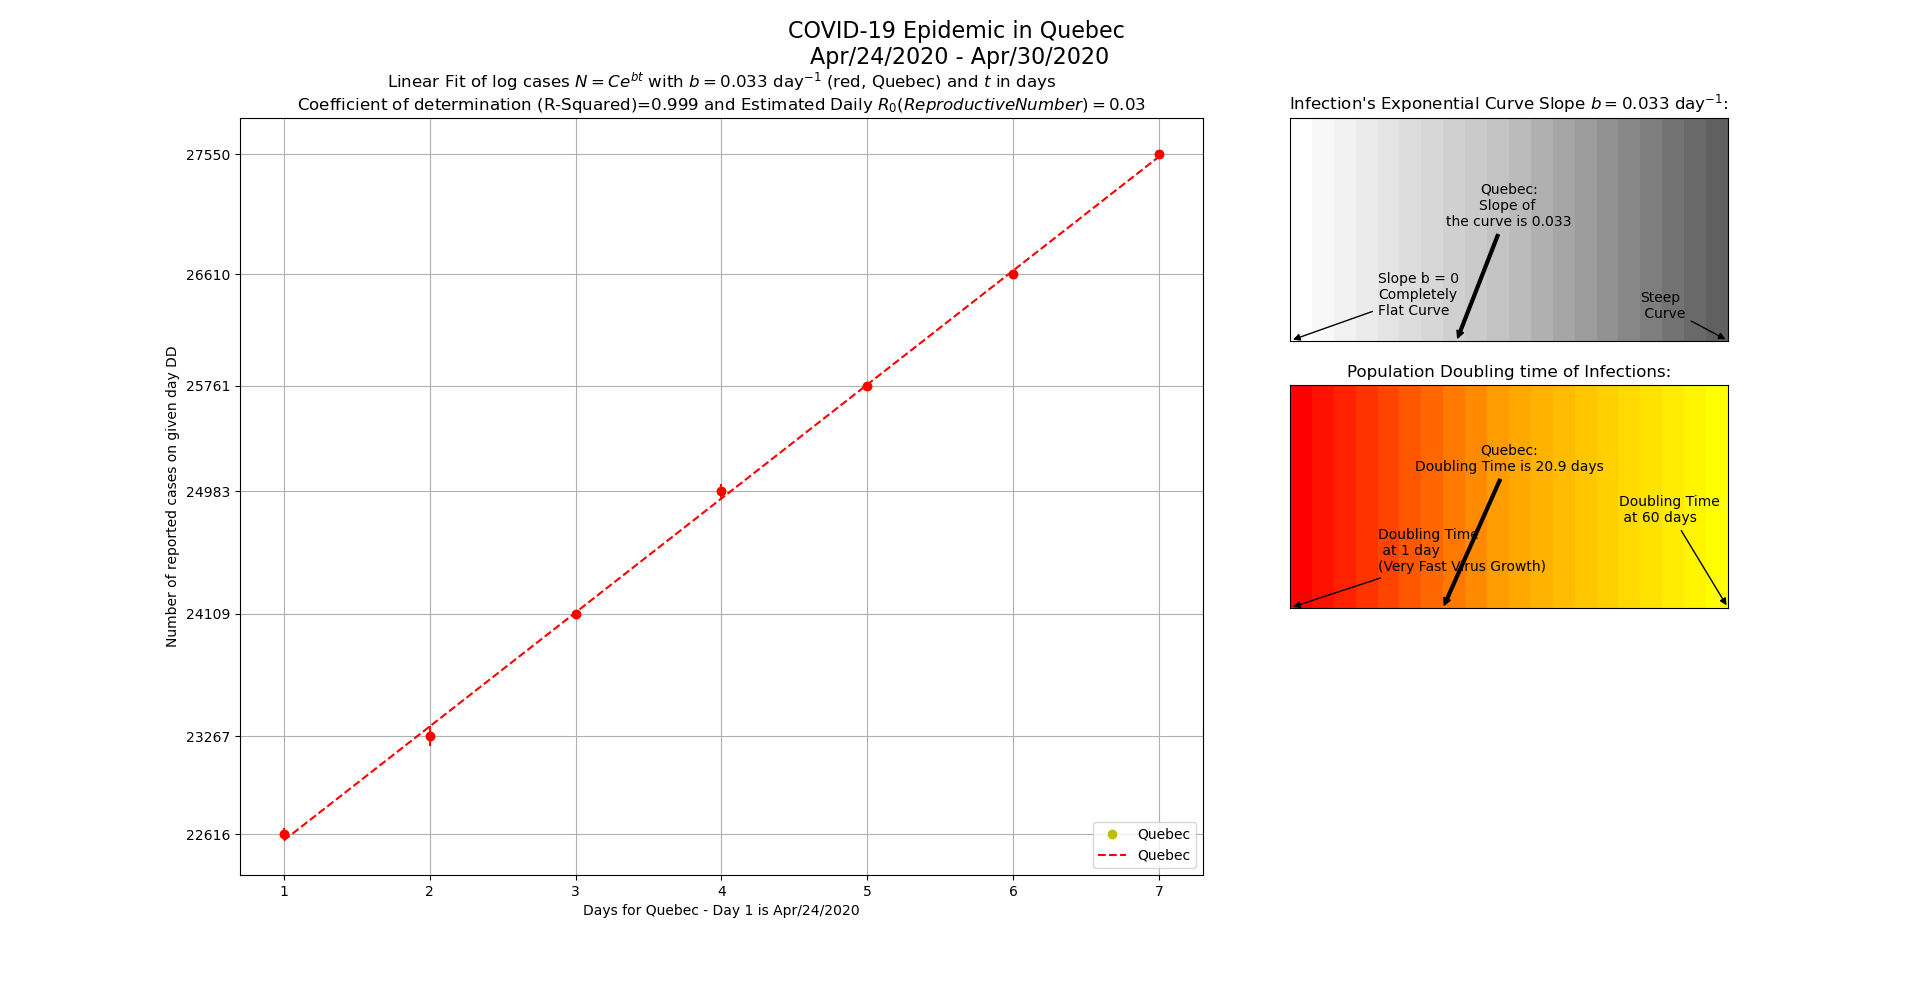
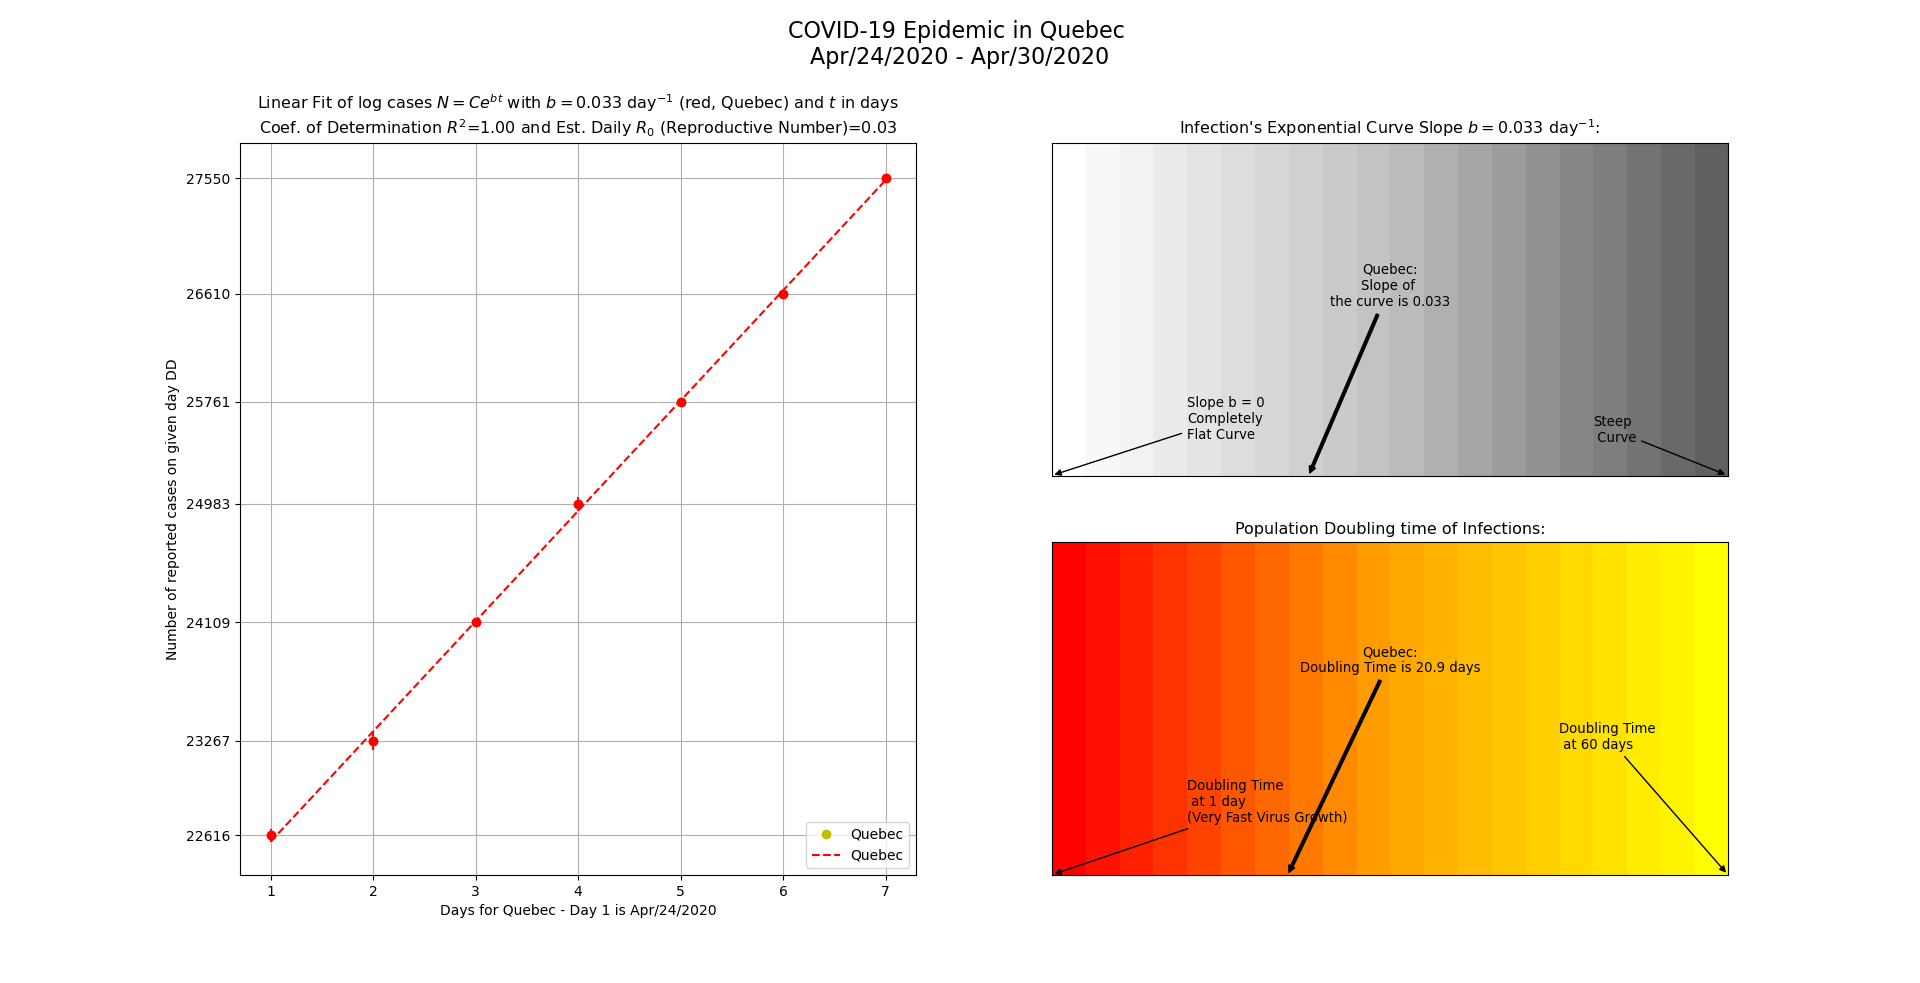
Update title and font sizes and plots.

diff --git a/covid19_linear_plot.py b/covid19_linear_plot.py
@@ -238,11 +238,13 @@ class Covid19Data:
             end_date_label = self.get_readable_date(self.csv_row_data.columns[covid19_data.end_date_col])
 
 
-        gridsize = (3, 3)
+        gridsize = (2, 2)
         fig = plt.figure(figsize=(10,10)) #width and height
-        ax1 = plt.subplot2grid(gridsize, (0, 0), colspan=2, rowspan=3)
-        ax2 = plt.subplot2grid(gridsize, (0, 2))
-        ax3 = plt.subplot2grid(gridsize, (1, 2))
+        ax1 = plt.subplot2grid(gridsize, (0, 0), colspan=1, rowspan=3)
+        ax2 = plt.subplot2grid(gridsize, (0, 1))
+        ax3 = plt.subplot2grid(gridsize, (1, 1))
+        
+        
 
         # List Integer values to use build the plotted colou map images
         IMAGE_ROW_VALUES = [0, 10, 20, 30, 40, 50, 60, 70, 80, 90, 100, 110, 120, 130, 140, 150, 160, 170, 180, 190]
@@ -260,10 +262,10 @@ class Covid19Data:
         ax1_title = "Linear Fit of " + \
                         "log cases $N=Ce^{bt}$ with " + \
                         "$b=$%.3f day$^{-1}$ (red, %s) and $t$ in days\n" % (slope, self.location) + \
-                        "Coefficient of determination (R-Squared)=%.3f" % R + " and Estimated Daily $R_0 (Reproductive Number)=$%.2f" % R0
+                        "Coef. of Determination $R^{2}$=%.2f" % R + " and Est. Daily $R_0$ (Reproductive Number)=%.2f" % R0
 
         ax1.set_title(ax1_title)
-
+        ax1.title.set_fontsize(11.5)
         ax1.legend(loc="lower right")
         
 
@@ -286,7 +288,7 @@ class Covid19Data:
         elif slope <= 0:
             scale_offset = 0
 
-        slope_image = np.array([IMAGE_ROW_VALUES, IMAGE_ROW_VALUES])
+        slope_image = np.array([IMAGE_ROW_VALUES])
 
         #Show as shades of greys
         slope_cmap = colors.LinearSegmentedColormap.from_list('custom grey', [(0.0, '#FFFFFF'), (0.5, '#C0C0C0'), (1.0 ,'#606060')] , N=256)
@@ -297,23 +299,24 @@ class Covid19Data:
 
         ax2.xaxis.axes.annotate('%s:\nSlope of \nthe curve is %.3f' %(self.location, slope), ha="center", xy=(scale_offset+0.001*slope, 0), xycoords='axes fraction',
             xytext=(0.5, 0.5), textcoords='axes fraction', 
-            arrowprops=dict(arrowstyle="simple", facecolor='black'), fontsize=10, va="bottom")
+            arrowprops=dict(arrowstyle="simple", facecolor='black'), fontsize=9.5, va="bottom")
 
         ax2.xaxis.axes.annotate('Slope b = 0\nCompletely\nFlat Curve',  xy=(0, 0), xycoords='axes fraction', 
-            xytext=(0.2, 0.1), textcoords='axes fraction', arrowprops=dict(arrowstyle="-|>", facecolor='black'), fontsize=10, va="bottom")
+            xytext=(0.1, 0.1), textcoords='axes fraction', arrowprops=dict(arrowstyle="-|>", facecolor='black'), fontsize=9.5, va="bottom")
  
-        ax2.xaxis.axes.annotate('Steep\n Curve', xy=(1, 0), xycoords='axes fraction', xytext=(0.8,0.1), #Provide a bit offset for the text, so not to overlap axis boundary 
+        ax2.xaxis.axes.annotate('Steep\n Curve', xy=(1, 0), xycoords='axes fraction', xytext=(0.9,0.1), #Provide a bit offset for the text, so not to overlap axis boundary 
             textcoords='axes fraction', 
             arrowprops=dict(arrowstyle="-|>", facecolor='black'), 
-            fontsize=10)
+            fontsize=9.5)
 
         ax2.xaxis.set_visible(False)
         ax2.yaxis.set_visible(False)
         ax2.set_title('Infection\'s Exponential Curve Slope $b=$%.3f day$^{-1}$:' % (slope))
+        ax2.title.set_fontsize(11.5)
 
         #Build doubling timeimage
         doubling_time_cmap = colors.LinearSegmentedColormap.from_list('custom roy', self.get_doubling_time_cmap(d_time) , N=256)
-        dtime_image = np.array([IMAGE_ROW_VALUES, IMAGE_ROW_VALUES])
+        dtime_image = np.array([IMAGE_ROW_VALUES])
         ax3.imshow(dtime_image ,interpolation='nearest',  cmap=doubling_time_cmap, aspect='auto')
 
         #Determine location and label for doubling time at 60 days
@@ -324,34 +327,36 @@ class Covid19Data:
         elif d_time <= 60 and d_time >= 50:
             dtime_60_loc = 1.0
             #Allow for small offset from right boundary of axis.
-            dtime_60_label = 0.75
+            dtime_60_label = 0.80
             dtime_loc = d_time/60
         elif d_time < 50 and d_time > 0:
             dtime_60_loc = 1.0
-            dtime_60_label = 0.75
+            dtime_60_label = 0.80
             dtime_loc = d_time/60
         elif d_time < 0:
             dtime_60_loc = 1.0
-            dtime_60_label = 0.75
+            dtime_60_label = 0.80
             dtime_loc = -0.08
 
 
         ax3.xaxis.axes.annotate('%s:\nDoubling Time is %.1f days' %(self.location, d_time), ha="center", xy=(dtime_loc, 0), xytext=(0.5, 0.6), 
-            xycoords='axes fraction', textcoords='axes fraction', arrowprops=dict(arrowstyle="simple", facecolor='black'), fontsize=10, va="bottom")
+            xycoords='axes fraction', textcoords='axes fraction', arrowprops=dict(arrowstyle="simple", facecolor='black'), fontsize=9.5, va="bottom")
 
         ax3.xaxis.axes.annotate('Doubling Time\n at 1 day\n(Very Fast Virus Growth)',  xy=(0, 0), xycoords='axes fraction', 
-            xytext=(0.2, 0.15), textcoords='axes fraction', arrowprops=dict(arrowstyle="-|>", facecolor='black'), fontsize=10, va="bottom")
+            xytext=(0.1, 0.15), textcoords='axes fraction', arrowprops=dict(arrowstyle="-|>", facecolor='black'), fontsize=9.5, va="bottom")
  
         ax3.xaxis.axes.annotate('Doubling Time\n at 60 days', xy=(dtime_60_loc, 0), xycoords='axes fraction', xytext=(dtime_60_label,0.37), #Provide a bit offset for the text  
             textcoords='axes fraction', 
-            arrowprops=dict(arrowstyle="-|>", facecolor='black'), fontsize=10, va="bottom")
+            arrowprops=dict(arrowstyle="-|>", facecolor='black'), fontsize=9.5, va="bottom")
         ax3.xaxis.set_visible(False)
         ax3.yaxis.set_visible(False)
 
         ax3.set_title('Population Doubling time of Infections:')
-
+        ax3.title.set_fontsize(11.5)
+        
         date_info = '%s - %s' %(start_date_label, end_date_label) 
         plt.suptitle('COVID-19 Epidemic in %s \n%s' %(self.location, date_info), fontsize=16)
+        #plt.rc('axes', titlesize=7) 
         plt.show()
 
 
